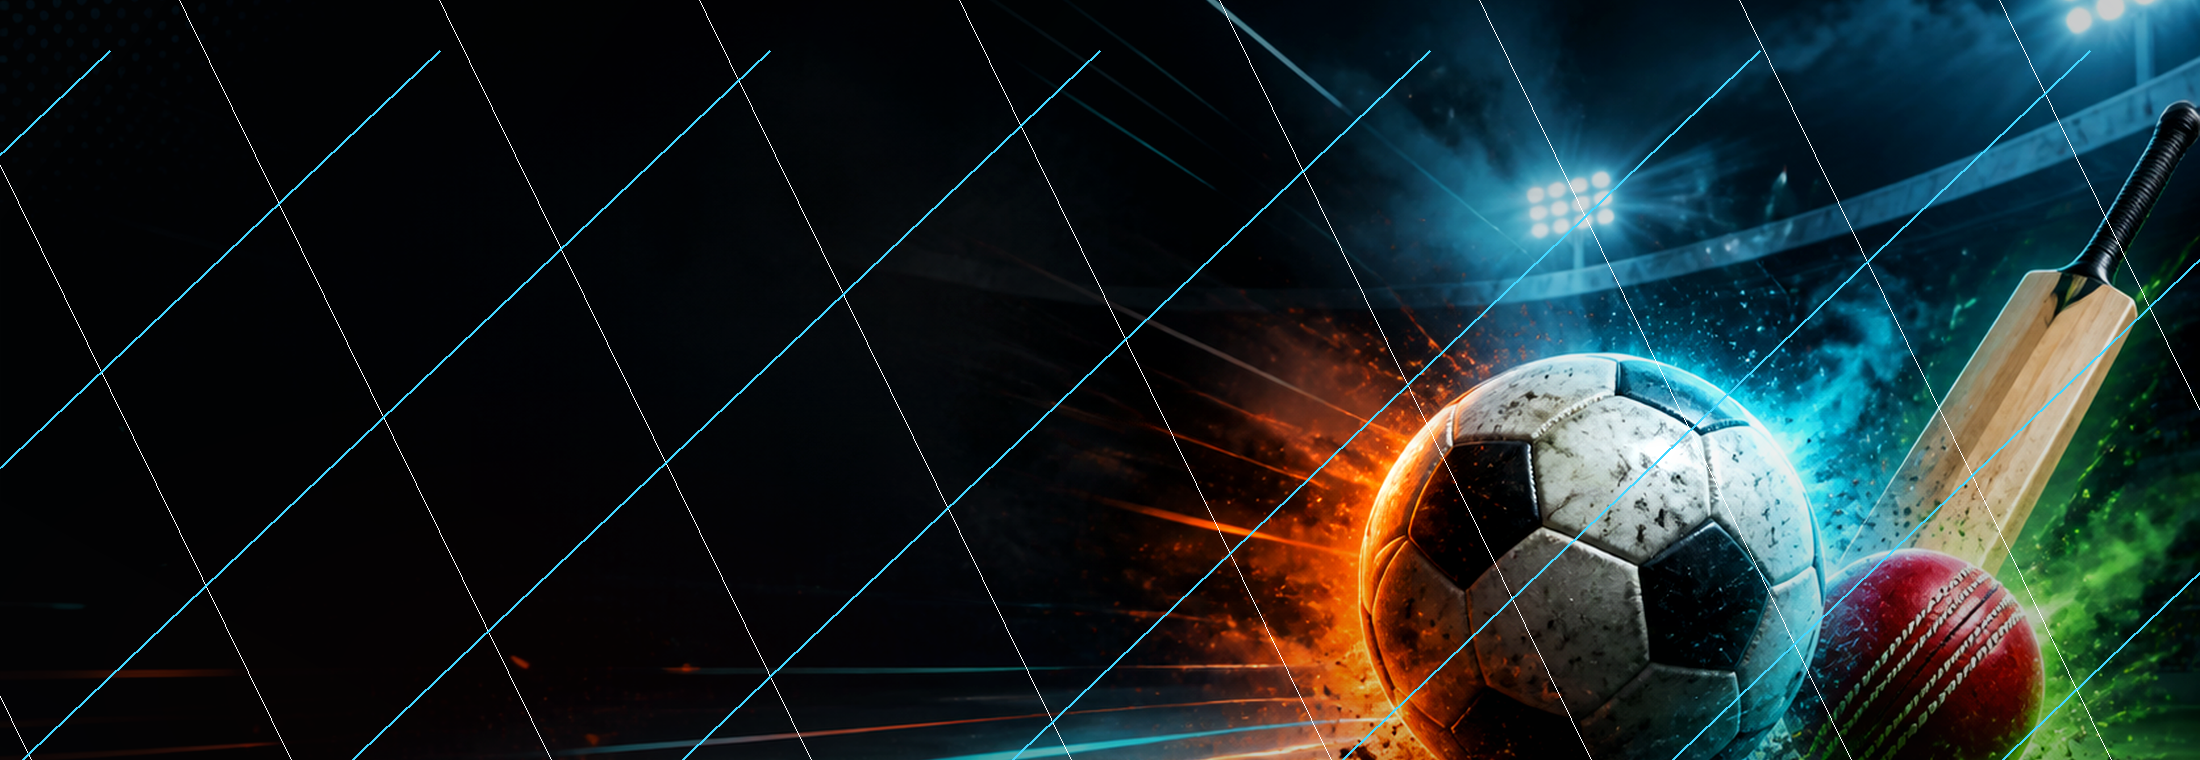
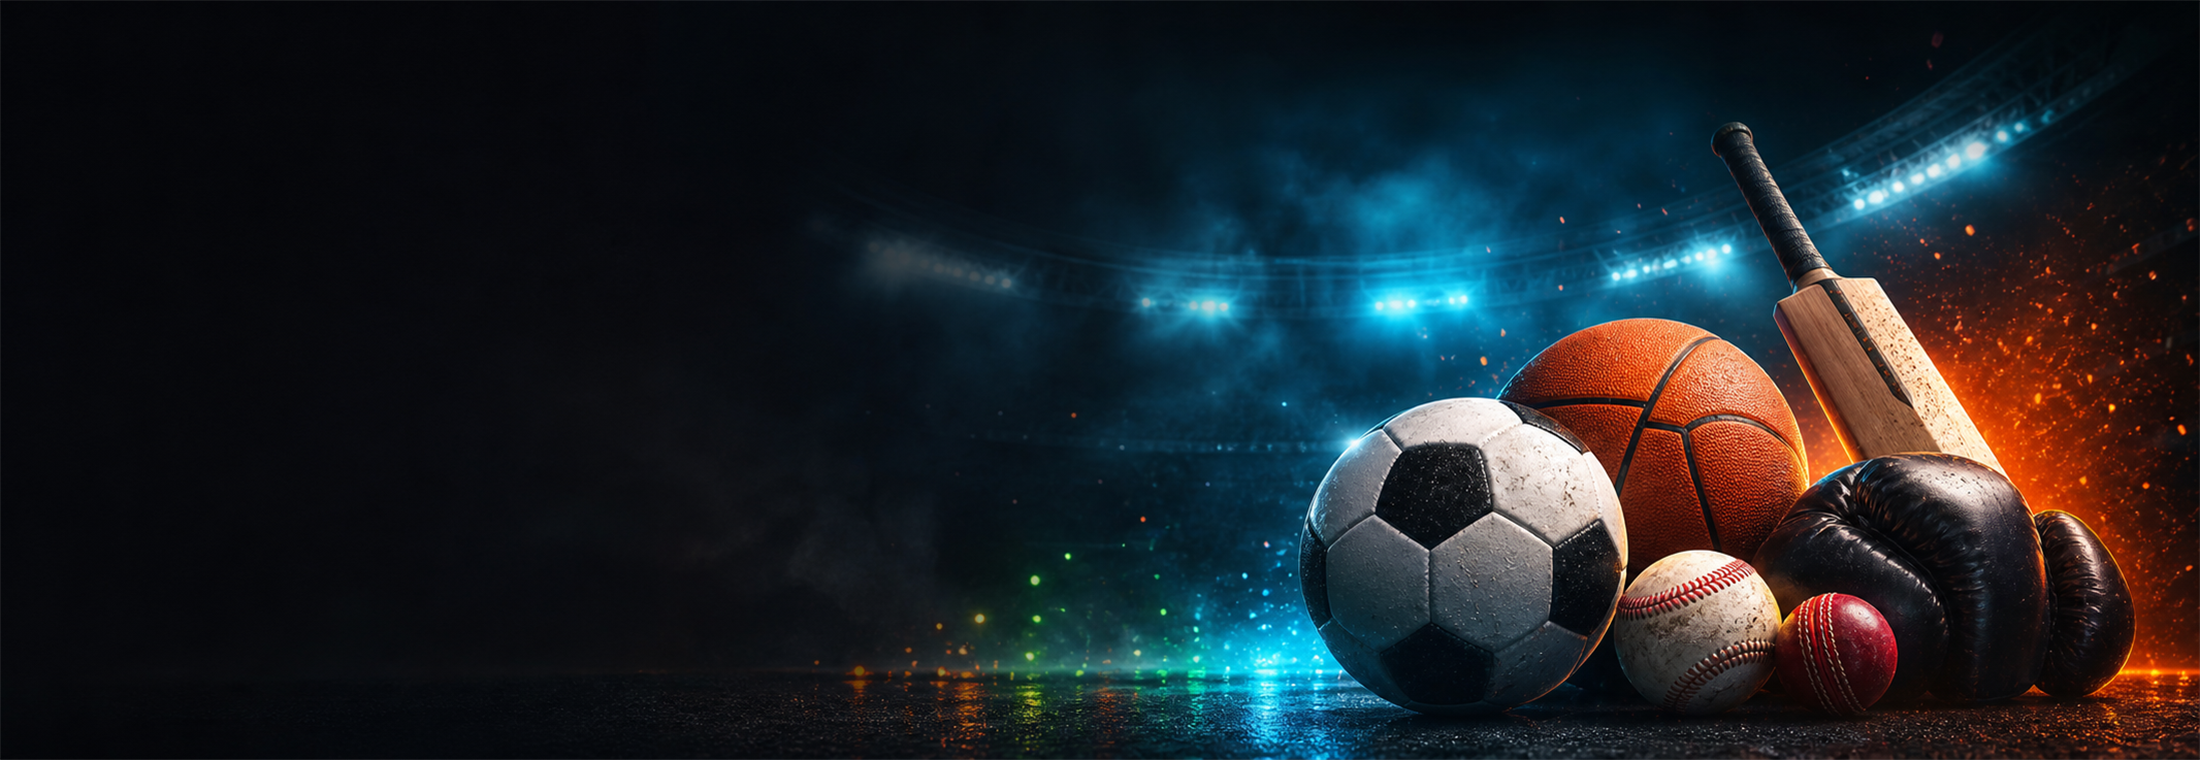
update

diff --git a/src/styles.css b/src/styles.css
@@ -12504,3 +12504,345 @@ a:focus-visible {
     width: 100%;
   }
 }
+
+/* Final mobile first-screen pass: compact header, balanced hero, readable cards. */
+@media (max-width: 820px) {
+  :root {
+    --topbar-height: 64px;
+  }
+
+  .topbar {
+    grid-template-columns: minmax(0, 1fr) 40px;
+    gap: 8px;
+    min-height: var(--topbar-height);
+    padding: 6px 10px;
+  }
+
+  .brand-lockup {
+    min-height: 0;
+  }
+
+  .sports-brand-logo {
+    width: 102px;
+    height: 42px;
+  }
+
+  .header-actions {
+    align-self: center;
+  }
+
+  .icon-button,
+  .mobile-search-button {
+    width: 38px;
+    height: 38px;
+    border-radius: 9px;
+  }
+
+  .content-area {
+    padding: 8px 8px calc(100px + env(safe-area-inset-bottom));
+  }
+
+  .home-page {
+    gap: 8px;
+  }
+
+  .home-hero {
+    grid-template-columns: 1fr;
+    grid-template-rows: auto auto;
+    gap: 13px;
+    min-height: 0;
+    padding: 14px;
+    border-color: rgba(210, 219, 225, 0.15);
+    background:
+      radial-gradient(circle at 98% 4%, rgba(66, 214, 255, 0.13), transparent 36%),
+      radial-gradient(circle at 0% 100%, rgba(232, 95, 61, 0.1), transparent 32%),
+      linear-gradient(135deg, rgba(255, 255, 255, 0.055), rgba(255, 255, 255, 0.018)),
+      #0c1013;
+    box-shadow: none;
+  }
+
+  .home-hero-art {
+    inset: 0;
+    width: 100%;
+    height: 100%;
+    object-fit: cover;
+    object-position: 68% center;
+    opacity: 0.86;
+    filter: saturate(1.06) contrast(1.08) brightness(0.78);
+  }
+
+  .home-hero-shade {
+    background:
+      linear-gradient(90deg, rgba(8, 11, 13, 0.94) 0%, rgba(8, 11, 13, 0.82) 44%, rgba(8, 11, 13, 0.2) 100%),
+      linear-gradient(180deg, rgba(8, 11, 13, 0.1) 0%, rgba(8, 11, 13, 0.32) 50%, rgba(8, 11, 13, 0.82) 100%);
+  }
+
+  .home-hero-content {
+    display: flex;
+    flex-direction: column;
+    align-items: stretch;
+    gap: 0;
+    padding: 1px 1px 0;
+  }
+
+  .home-hero-copy {
+    gap: 6px;
+  }
+
+  .home-hero-welcome {
+    max-width: calc(100% - 94px);
+    color: #c4ced6;
+    font-size: 0.62rem;
+    font-weight: 780;
+    line-height: 1.15;
+  }
+
+  .home-hero h1 {
+    max-width: calc(100% - 76px);
+    color: #f7fafc;
+    font-size: 1.3rem;
+    font-weight: 820;
+    line-height: 1.08;
+  }
+
+  .home-hero p {
+    max-width: calc(100% - 36px);
+    color: #bec7ce;
+    font-size: 0.75rem;
+    font-weight: 640;
+    line-height: 1.36;
+  }
+
+  .home-hero-sport-actions {
+    display: grid;
+    grid-template-columns: repeat(2, minmax(0, 1fr));
+    gap: 10px;
+    width: 100%;
+    max-width: none;
+    margin-top: 17px;
+  }
+
+  .home-hero-sport-action {
+    min-height: 44px;
+    padding: 0 10px;
+    gap: 8px;
+    border-radius: 8px;
+    font-size: 0.8rem;
+    font-weight: 860;
+  }
+
+  .home-hero-sport-action svg {
+    width: 18px;
+    height: 18px;
+  }
+
+  .home-hero-sport-action span {
+    text-overflow: ellipsis;
+  }
+
+  .home-feature-card {
+    gap: 7px;
+    padding: 10px 11px 9px 13px;
+    border-color: rgba(210, 219, 225, 0.16);
+    background:
+      linear-gradient(180deg, rgba(255, 255, 255, 0.07), rgba(255, 255, 255, 0.024)),
+      #151a1f;
+    box-shadow: inset 0 1px 0 rgba(255, 255, 255, 0.05);
+  }
+
+  .home-feature-card::before {
+    inset: 11px auto 11px 0;
+  }
+
+  .home-feature-label {
+    font-size: 0.56rem;
+  }
+
+  .home-feature-matchup {
+    min-height: 38px;
+    padding-bottom: 6px;
+  }
+
+  .home-feature-matchup.is-channel {
+    grid-template-columns: minmax(0, 1fr) auto;
+    gap: 9px;
+  }
+
+  .home-feature-team {
+    grid-template-columns: 34px minmax(0, 1fr);
+    gap: 8px;
+  }
+
+  .home-feature-card .team-mark.is-large {
+    width: 34px;
+    height: 34px;
+  }
+
+  .home-feature-team strong {
+    font-size: 0.82rem;
+    line-height: 1.06;
+  }
+
+  .home-feature-center strong {
+    min-height: 22px;
+    padding-inline: 8px;
+    font-size: 0.56rem;
+  }
+
+  .home-feature-meta {
+    gap: 7px;
+    padding-top: 6px;
+    font-size: 0.62rem;
+  }
+
+  .home-summary-strip {
+    grid-template-columns: repeat(2, minmax(0, 1fr));
+    gap: 8px;
+  }
+
+  .summary-metric {
+    grid-template-columns: 30px minmax(0, 1fr) auto;
+    gap: 8px;
+    min-height: 50px;
+    padding: 8px 9px;
+  }
+
+  .summary-metric svg {
+    width: 30px;
+    height: 30px;
+    padding: 7px;
+  }
+
+  .summary-metric span {
+    font-size: 0.68rem;
+  }
+
+  .summary-metric strong {
+    font-size: 1rem;
+  }
+}
+
+@media (max-width: 520px) {
+  :root {
+    --topbar-height: 62px;
+  }
+
+  .topbar {
+    padding-inline: 9px;
+  }
+
+  .sports-brand-logo {
+    width: 96px;
+    height: 40px;
+  }
+
+  .content-area {
+    padding-inline: 6px;
+  }
+
+  .home-hero {
+    gap: 12px;
+    padding: 12px;
+  }
+
+  .home-hero-art {
+    width: 100%;
+    height: 100%;
+    object-position: 71% center;
+  }
+
+  .home-hero-welcome {
+    max-width: calc(100% - 82px);
+  }
+
+  .home-hero h1 {
+    max-width: calc(100% - 64px);
+    font-size: 1.22rem;
+  }
+
+  .home-hero p {
+    max-width: calc(100% - 26px);
+    font-size: 0.72rem;
+  }
+
+  .home-hero-sport-actions {
+    gap: 9px;
+    margin-top: 15px;
+  }
+
+  .home-hero-sport-action {
+    min-height: 42px;
+    padding-inline: 9px;
+    font-size: 0.76rem;
+  }
+
+  .home-feature-card {
+    padding: 9px 10px 9px 13px;
+  }
+}
+
+@media (max-width: 380px) {
+  .home-hero {
+    padding: 11px;
+  }
+
+  .home-hero-art {
+    width: 100%;
+    height: 100%;
+    object-position: 73% center;
+  }
+
+  .home-hero-welcome,
+  .home-hero h1 {
+    max-width: calc(100% - 58px);
+  }
+
+  .home-hero h1 {
+    font-size: 1.15rem;
+  }
+
+  .home-hero p {
+    max-width: 100%;
+    font-size: 0.69rem;
+  }
+
+  .home-hero-sport-actions {
+    gap: 8px;
+    margin-top: 13px;
+  }
+
+  .home-hero-sport-action {
+    min-height: 40px;
+    padding-inline: 7px;
+    font-size: 0.7rem;
+  }
+
+  .home-hero-sport-action svg {
+    width: 17px;
+    height: 17px;
+  }
+
+  .home-summary-strip {
+    grid-template-columns: repeat(2, minmax(0, 1fr));
+  }
+
+  .summary-metric {
+    grid-template-columns: 28px minmax(0, 1fr) auto;
+    gap: 7px;
+    padding-inline: 8px;
+  }
+
+  .summary-metric svg {
+    width: 28px;
+    height: 28px;
+    padding: 7px;
+  }
+
+  .summary-metric span {
+    font-size: 0.62rem;
+  }
+
+  .summary-metric strong {
+    font-size: 0.92rem;
+  }
+}

diff --git a/src/App.tsx b/src/App.tsx
@@ -1173,7 +1173,7 @@ function HeaderSportsMenu({
           {activeSport ? (
             <img src={activeSport.iconSrc} alt="" decoding="async" draggable="false" />
           ) : (
-            <Activity size={16} aria-hidden="true" />
+            <img src={genericSportIconUrl} alt="" decoding="async" draggable="false" />
           )}
         </span>
         <span>Sports</span>